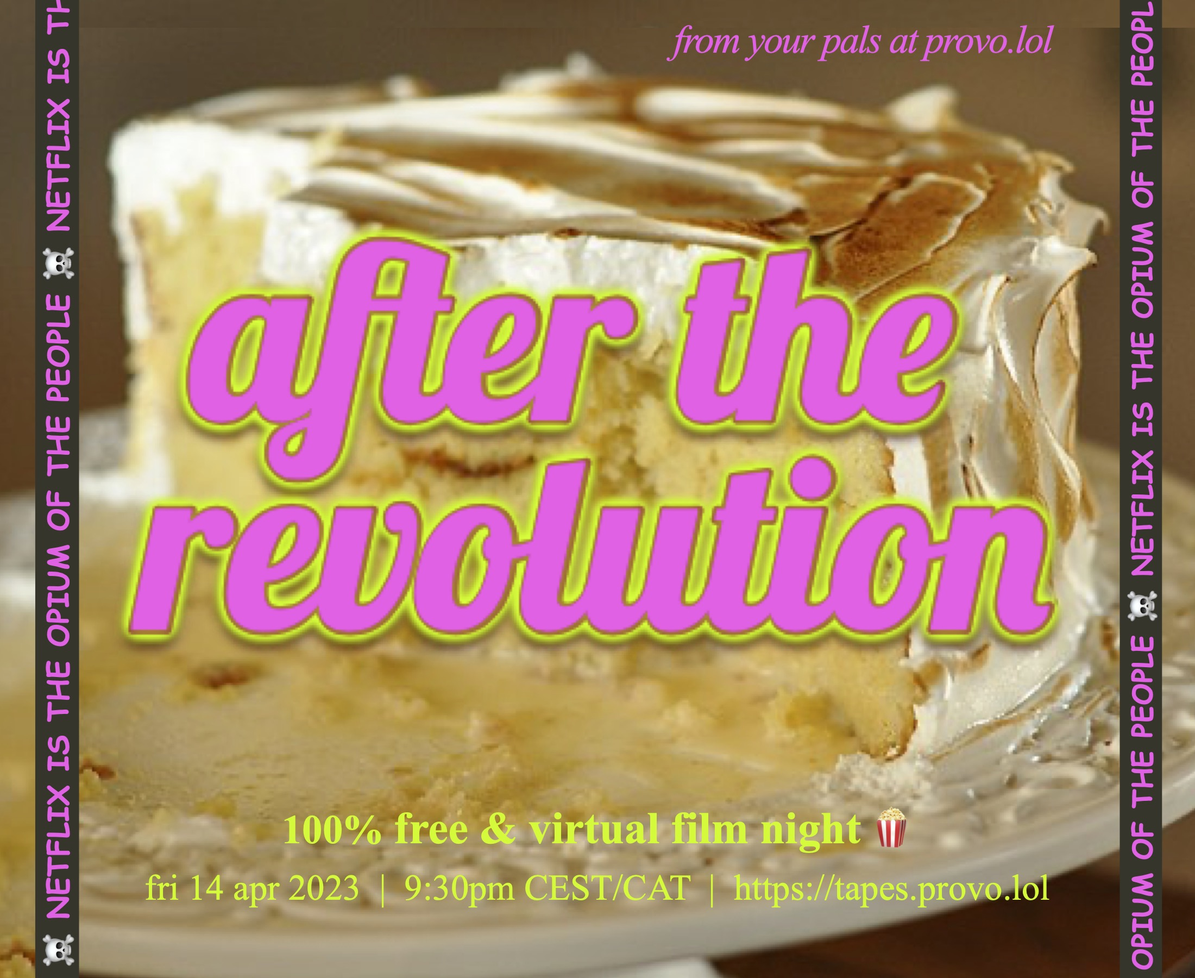
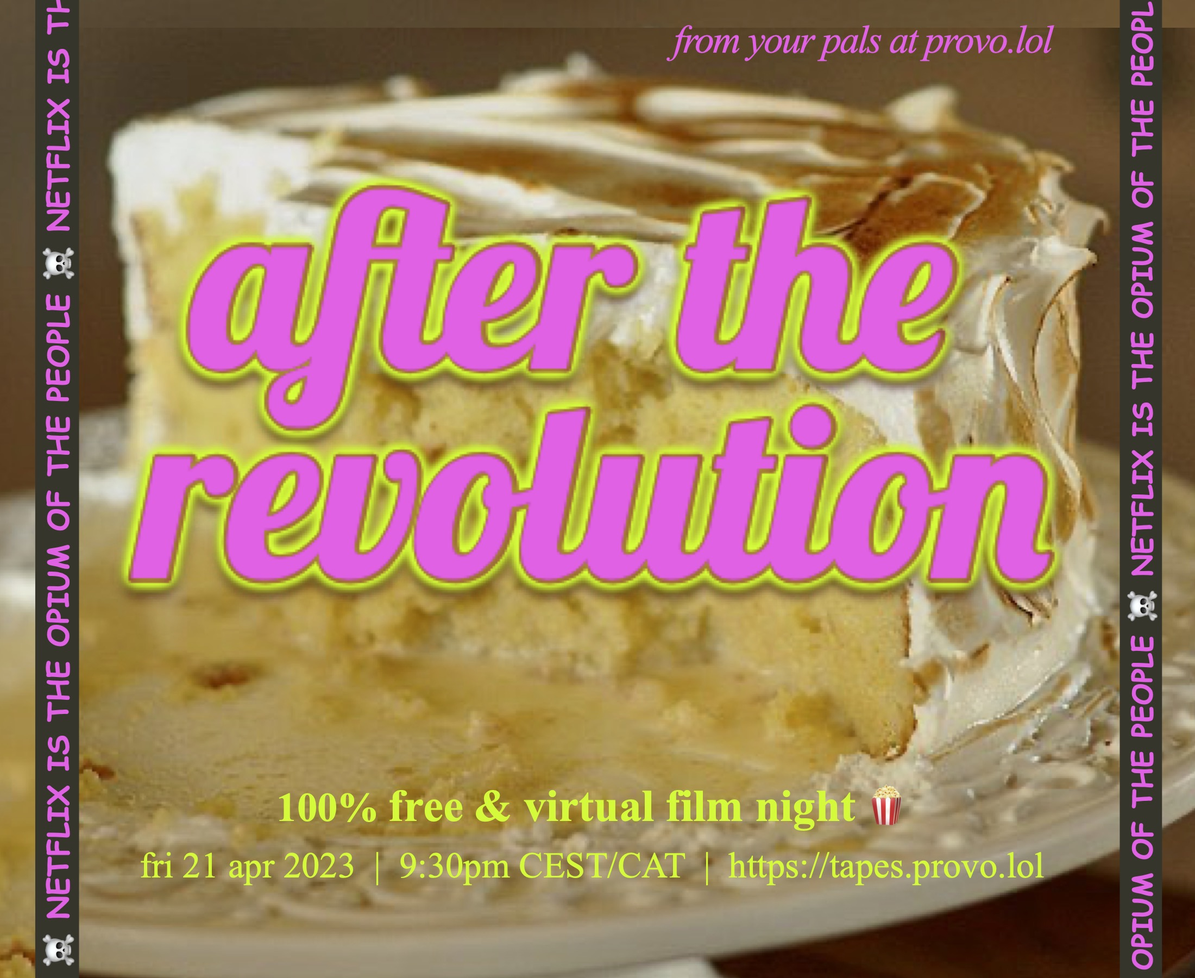
update info session 10

diff --git a/content/posts/session-10.md b/content/posts/session-10.md
@@ -1,6 +1,6 @@
 ---
-title: "Fri 14 Apr 2023: After the revolution ✊"
-subtitle: "Friday 14 April 2023"
+title: "Fri 21 Apr 2023: After the revolution ✊"
+subtitle: "Friday 21 April 2023"
 description: "Why not settle in for a free online Friday film night with your chums at provolol? No Netflix, just chill. Bring strangers, acquaintances, any snacks you like. See you there :3"
 date: 2023-04-07T23:47:00+01:00
 # tldr: 
@@ -13,7 +13,7 @@ tags: ["socialism", "cannibalism", "aristocracy"]
 DETAILS:
 
 **After the revolution**   
-14 April 2023  
+21 April 2023  
 8.30 PM UK time / 9.30 PM CEST/CAT  
 Duration: approx. 130 mins  
 Watch party: [Provo.lol on Twitch](https://www.twitch.tv/provolol)
